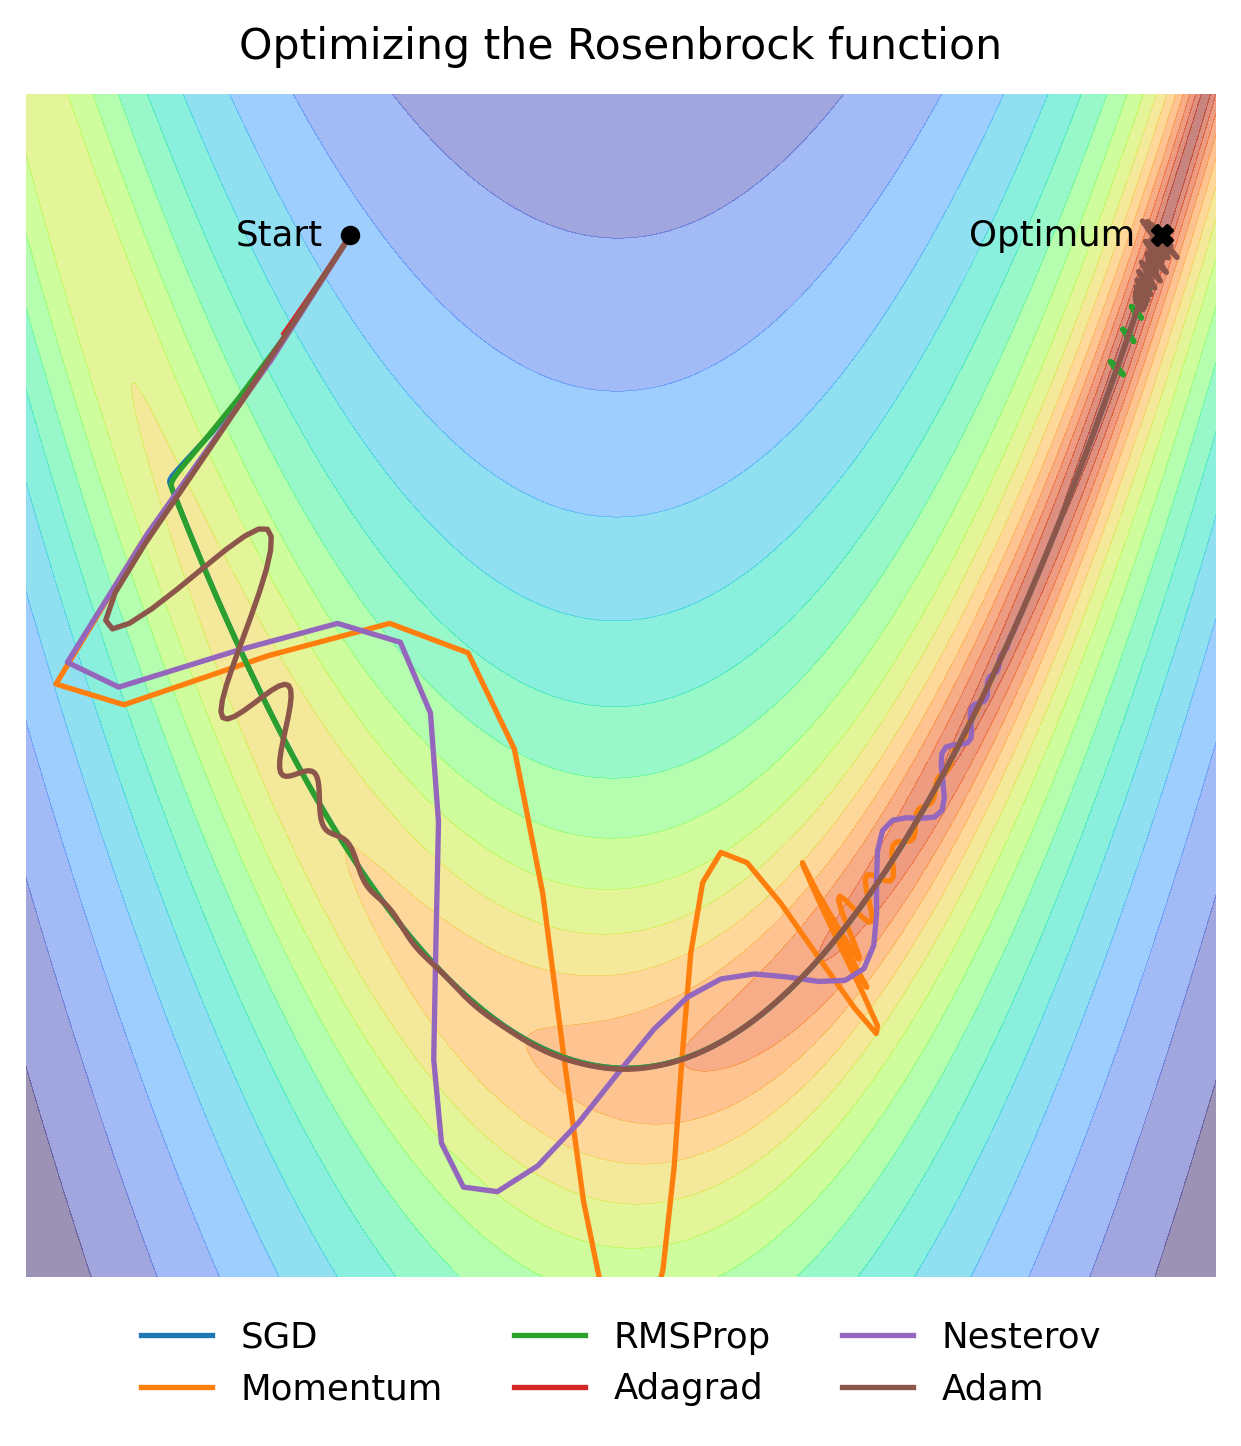
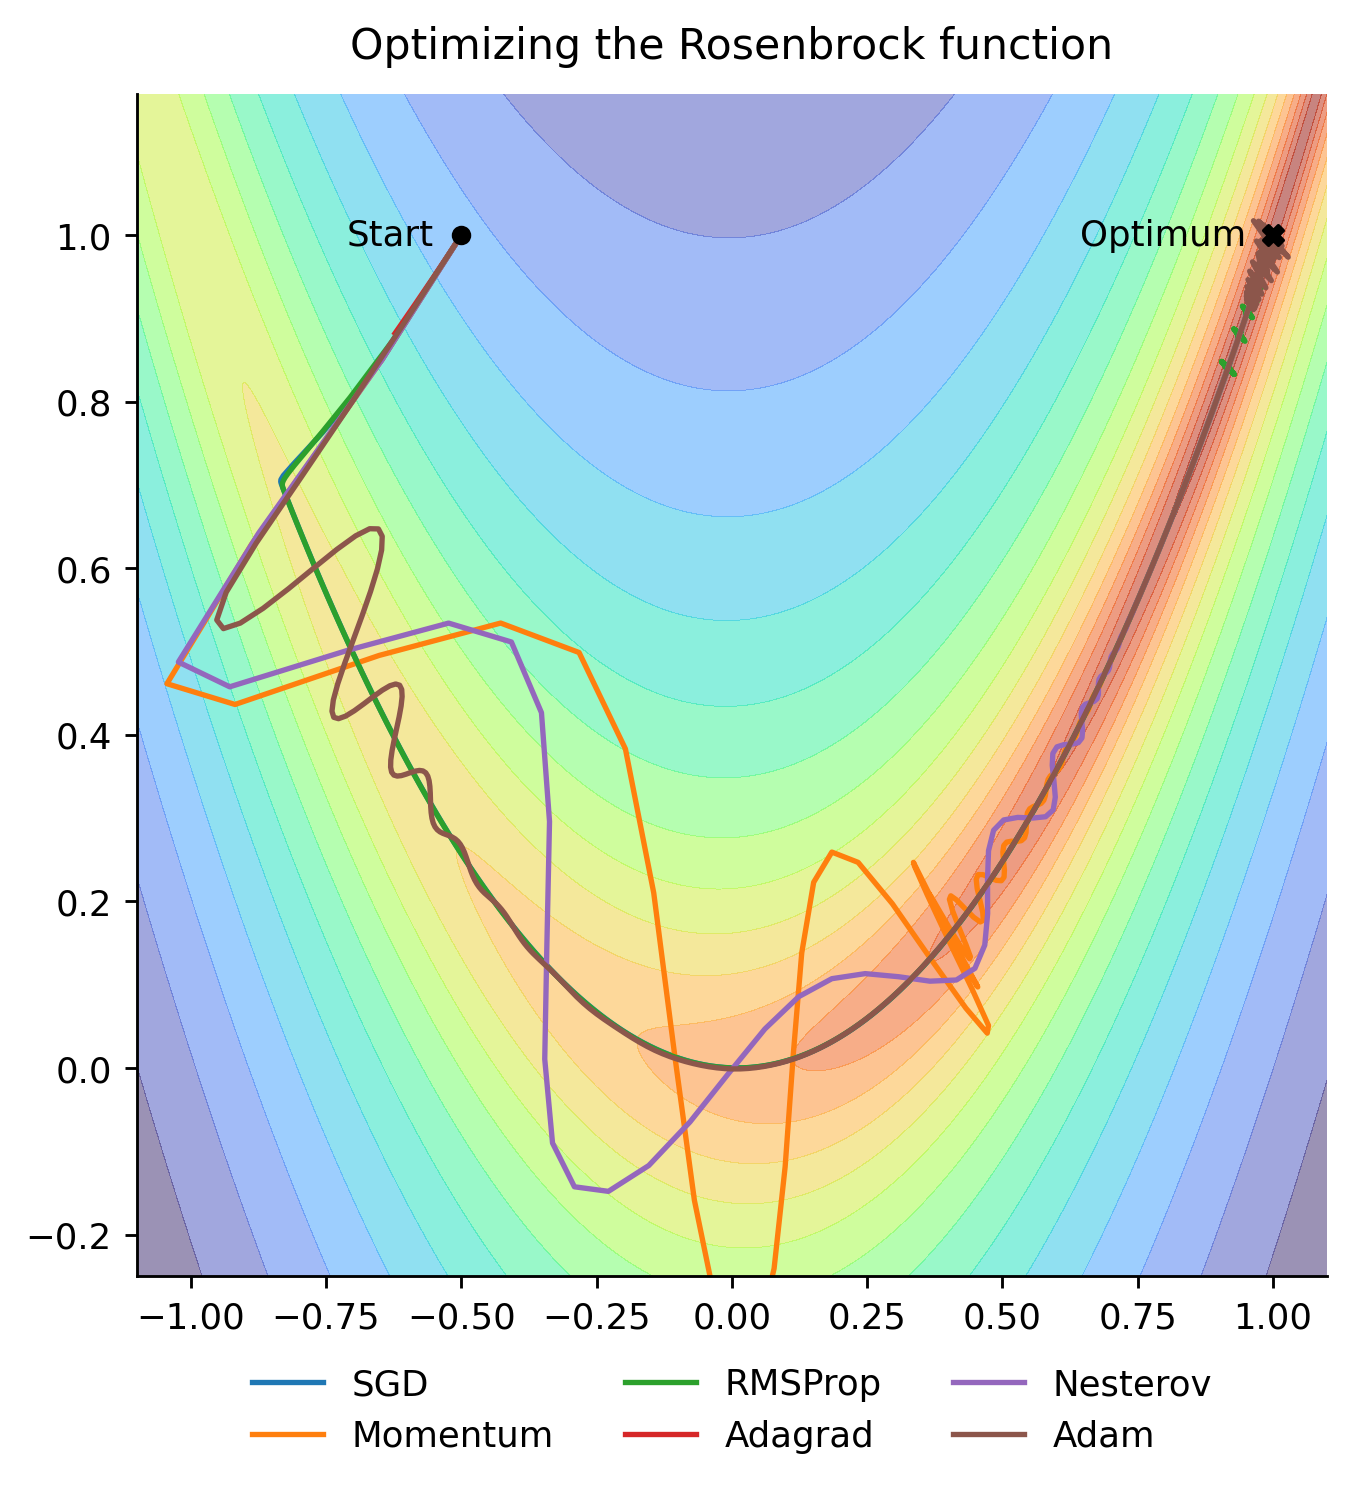
annotate rosenbrock example

diff --git a/examples/rosenbrock.py b/examples/rosenbrock.py
@@ -1,26 +1,51 @@
+"""
+Plot the optimization trajectory for different optimizers on a 2D example.
+
+The Rosenbrock function is a classic optimization problem that is a good
+test case for optimizers. It is a non-convex function with a narrow valley
+and a global minimum.
+"""
+
 import jax.lax as lax
 import jax.numpy as jnp
 import matplotlib.pyplot as plt
+import seaborn as sns
 from tqdm import tqdm
 from utils import get_plot_path
 
 import seli
 
 
+# Define the rosenbrock function, which is to be optimized
 def rosenbrock_elementwise(x):
     return (1 - x[..., 0]) ** 2 + 100 * (x[..., 1] - x[..., 0] ** 2) ** 2
 
 
+# Wrap it in a seli.opt.Loss, so it can be used with the optimizers
 class RosenbrockLoss(seli.opt.Loss):
     def __call__(self, x):
+        # the loss function should return a scalar value, so we sum over all
+        # elements of the array
         return jnp.sum(rosenbrock_elementwise(x))
 
 
+# Create the loss object, the collection is set to be None instead of the
+# defaul value "param", since we want to optimize with respect to all input
+# arrays (in this case we only input a simple array x)
 loss = RosenbrockLoss()
 loss.collection = None
+
+# The starting point of the optimization, lets put this far from the optimum
+# to see how well the optimizers cope with the curvature of the loss surface
 start = jnp.array([-0.5, 1])
 
 
+# Compute the trajectory of the optimizer, this is a helper function that
+# runs the optimizer for a given number of steps and returns the trajectory
+# of the optimizer.
+# We could also run this in a for loop, but this directly compiles the whole
+# optimization loop as well, so it does not need to get back to the python
+# process in each iterationm, which would be slower.
 def compute_trajectory(optimizer, start):
     model = start
     remaining_steps = 2**12
@@ -63,6 +88,8 @@ def compute_trajectory(optimizer, start):
     return full_trajectory
 
 
+# These are the optimizers wel will test, the parameters are chosen to maximize
+# the performance for the rosenbrock function
 optimizers = {
     "SGD": seli.opt.SGD(1e-3),
     "Momentum": seli.opt.Momentum(1e-3, 0.9),
@@ -74,16 +101,23 @@ optimizers = {
 
 results = {}
 
+# Compute the trajectory for each optimizer
 for name, optimizer in tqdm(optimizers.items(), desc="Computing trajectories"):
     results[name] = compute_trajectory(optimizer, start)
 
 
+# Create a grid of points to evaluate the loss function on we will later use
+# this to create a contour plot of the loss function
 x = jnp.linspace(-1.1, 1.1, 1024)
 y = jnp.linspace(-0.25, 1.17, 1024)
 xi, yi = jnp.meshgrid(x, y)
-xy = jnp.stack([xi, yi], axis=-1)
 
+# Evaluate the loss function on the grid
+xy = jnp.stack([xi, yi], axis=-1)
 loss_values = rosenbrock_elementwise(xy)
+
+# Applu a transformation to the loss values to spread the values out more,
+# otherwise the contour plot will be dominated by the narrow valley
 loss_values = jnp.arcsinh(loss_values**0.5)
 
 fig, ax = plt.subplots(figsize=(6, 6))
@@ -98,6 +132,7 @@ ax.contourf(
     zorder=-101,
 )
 
+# plot the trajectory of the optimizers
 for name, trajectory in results.items():
     ax.plot(
         [t[0] for t in trajectory],
@@ -105,24 +140,24 @@ for name, trajectory in results.items():
         label=name,
     )
 
+# plot the starting point
 ax.scatter(start[0], start[1], color="k", marker="o", s=20, zorder=10)
 ax.text(start[0] - 0.05, start[1], "Start", ha="right", va="center")
 
+# plot the optimum
 optimum = jnp.array([1, 1])
-
 ax.scatter(optimum[0], optimum[1], color="k", marker="X", s=30, zorder=10)
 ax.text(optimum[0] - 0.05, optimum[1], "Optimum", ha="right", va="center")
 
-ax.axis("off")
-
 ax.set_xlim(x.min(), x.max())
 ax.set_ylim(y.min(), y.max())
+sns.despine(ax=ax)
 
 # put legend outside of the plot
 ax.legend(
     frameon=False,
     loc="upper center",
-    bbox_to_anchor=(0.5, -0.01),
+    bbox_to_anchor=(0.5, -0.05),
     ncol=3,
 )
 

diff --git a/examples/supervised_2d.py b/examples/supervised_2d.py
@@ -1,3 +1,10 @@
+"""
+Example of supervised learning on a 2D dataset.
+
+The dataset is generated using the `moons_dataset` function, which generates
+a dataset of two interleaving half circles.
+"""
+
 import jax.nn as jnn
 import jax.numpy as jnp
 import jax.random as jrn

diff --git a/src/seli/opt/_opt.py b/src/seli/opt/_opt.py
@@ -157,7 +157,7 @@ class Optimizer(Module, name="opt.Optimizer"):
         grads = self.call_model(
             model=model,
             loss=loss,
-            params=values,
+            values=values,
             grads=grads,
         )
 
